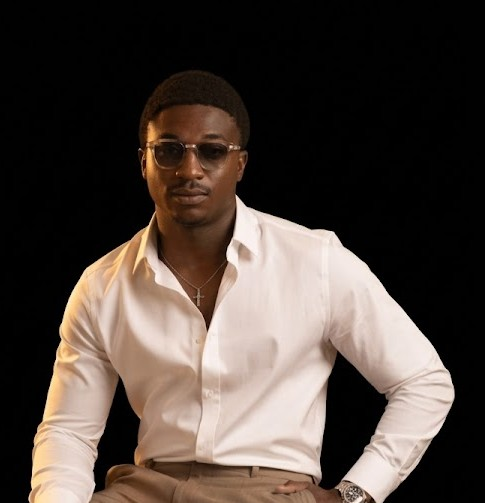
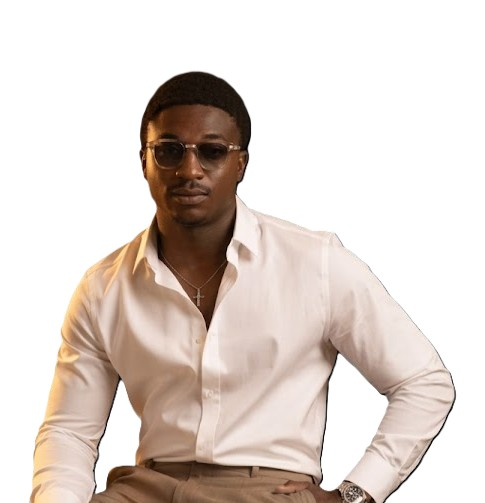
fixed home image

diff --git a/index.html b/index.html
@@ -29,7 +29,7 @@
             </div>
 
             <div class="image">
-                <img src="/resources/images/picture.jpg" alt="Konan">
+                <img src="/resources/images/hello.png" alt="Konan">
             </div>
         </div>
 

diff --git a/style.css b/style.css
@@ -82,6 +82,9 @@ body{
             color: #555555;
         }
     }
+    .image img{
+        width: 36rem;
+    }
 }
 #mobile-nav{
     display: none;
